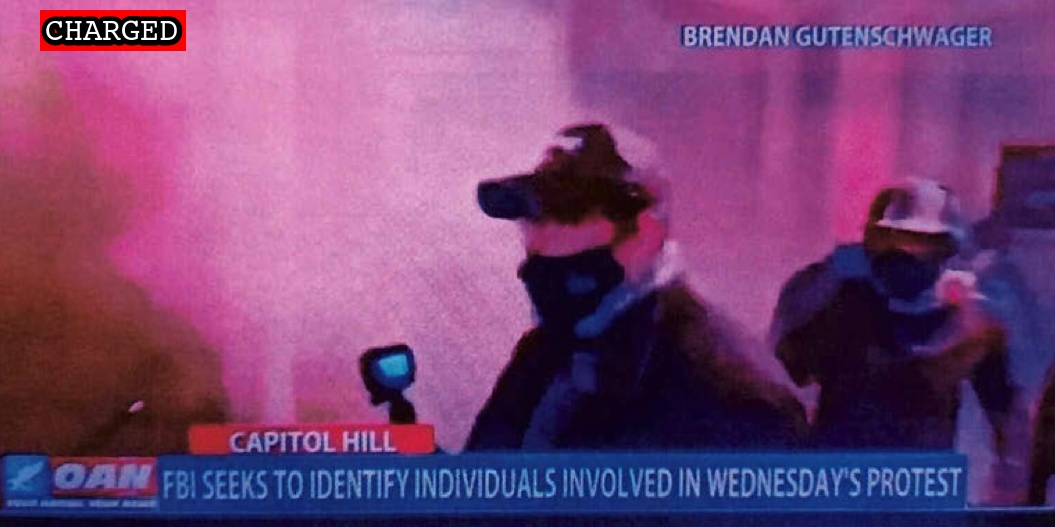
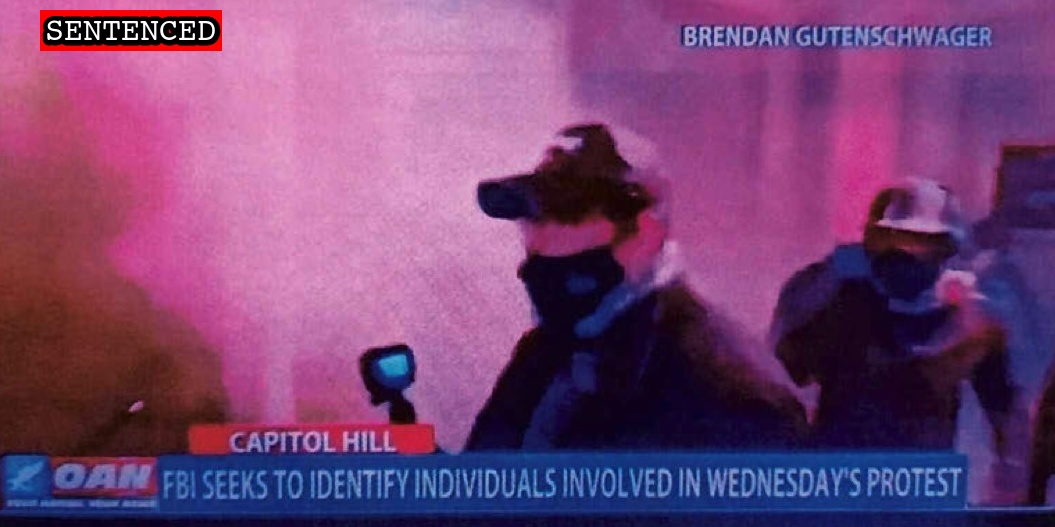
Latest

Changed region(s): [[0.0303, 0.0, 0.2123, 0.1214]]

diff --git a/docs/_suspects/lloyd-cruz.md b/docs/_suspects/lloyd-cruz.md
@@ -4,20 +4,20 @@ lastName: Cruz
 hashtag:
 aka:
 residence: Missouri
-status: Charged
+status: Sentenced
 date: 2022-02-25
 charged: 2022-02-25
 indicted:
-convicted:
+convicted: 2023-01-13
 acquitted:
-sentenced:
+sentenced: 2023-05-02
 dismissed:
 deceased:
 plea_hearing:
-trial_date: 2023-01-17
-trial_type: Jury Trial
+trial_date: 2023-01-13
+trial_type: Stipulated Bench Trial
 jury_selection:
-sentencing:
+sentencing: 2023-05-02
 status_conference:
 age: 39
 occupation:
@@ -32,7 +32,7 @@ raid:
 perpwalk:
 quote:
 title: Lloyd Cruz charged on February 25, 2022
-description: Click for latest case details. Suspects innocent until proven guilty.
+description: Convicted on January 13, 2023. Click for latest case details.
 author: seditiontrack
 layout: suspect
 published: true
@@ -41,8 +41,21 @@ caseName: USA v. CRUZ
 judge: Reggie B. Walton
 videos:
 charges:
+  - code: 18 USC § 1752(a)(1)
+    title: Entering a restricted building or grounds
+    url: https://www.law.cornell.edu/uscode/text/18/1752
+    felony: false
+  - code: 40 USC § 5104(e)(2)(G)
+    title: Parading, demonstrating or picketing in a Capitol building
+    url: https://www.law.cornell.edu/uscode/text/40/5104
+    felony: false
 sentence:
+  - 45 days incarceration
+  - 1 year probation
+  - $500 restitution
 ---
+
 - [News Report](https://www.kansascity.com/news/politics-government/article259374669.html)
 - [Statement of Facts](https://www.justice.gov/usao-dc/case-multi-defendant/file/1481061/download)
 - [Information](https://www.justice.gov/usao-dc/case-multi-defendant/file/1481066/download)
+- [Statement of Offense](https://storage.courtlistener.com/recap/gov.uscourts.dcd.240852/gov.uscourts.dcd.240852.73.0.pdf)

diff --git a/docs/_suspects/deborah-sandoval.md b/docs/_suspects/deborah-sandoval.md
@@ -17,7 +17,7 @@ plea_hearing:
 trial_date:
 trial_type:
 jury_selection:
-sentencing: 2023-05-01
+sentencing: 2023-08-07
 status_conference:
 age: 54
 occupation:
@@ -41,16 +41,15 @@ caseName: USA v. SANDOVAL
 judge: Colleen Kollar-Kotelly
 videos:
 charges:
-  - code: 40 USC § 5104(e)(2)(G)
-    title: Parading, demonstrating or picketing in a Capitol building
-    url: https://www.law.cornell.edu/uscode/text/40/5104
-    felony: false
+- code: 40 USC § 5104(e)(2)(G)
+  title: Parading, demonstrating or picketing in a Capitol building
+  url: https://www.law.cornell.edu/uscode/text/40/5104
+  felony: false
 sentence:
   - 5 months incarceration
   - 1 year probation
   - $500 restitution
 ---
-
 - [News Report](https://www.desmoinesregister.com/story/news/crime-and-courts/2021/02/19/capitol-riot-arrests-iowa-mother-and-son-face-charges-jan-6-riot-deborah-sandoval-salvador-sandoval/4515346001/)
 - [Statement of Facts](https://www.justice.gov/usao-dc/case-multi-defendant/file/1379251/download)
 - [Indictment](https://www.justice.gov/usao-dc/case-multi-defendant/file/1460081/download)

diff --git a/docs/_suspects/william-gallman.md b/docs/_suspects/william-gallman.md
@@ -4,11 +4,11 @@ lastName: Gallman
 hashtag:
 aka:
 residence: South Carolina
-status: Charged
+status: Convicted
 date: 2022-09-27
 charged: 2022-09-27
 indicted:
-convicted:
+convicted: 2023-05-02
 acquitted:
 sentenced:
 dismissed:
@@ -17,7 +17,7 @@ plea_hearing: 2023-05-02
 trial_date:
 trial_type:
 jury_selection:
-sentencing:
+sentencing: 2023-08-18
 status_conference:
 age: 38
 occupation:
@@ -32,7 +32,7 @@ raid:
 perpwalk:
 quote:
 title: William Gallman charged on September 27, 2022
-description: Click for latest case details. Suspects innocent until proven guilty.
+description: Convicted on May 2, 2023. Click for latest case details.
 author: seditiontrack
 layout: suspect
 published: true
@@ -41,6 +41,10 @@ caseName: USA v. GALLMAN
 judge: Amy B. Jackson
 videos:
 charges:
+- code: 40 USC § 5104(e)(2)(G)
+  title: Parading, demonstrating or picketing in a Capitol building
+  url: https://www.law.cornell.edu/uscode/text/40/5104
+  felony: false
 sentence:
 ---
 - [News Report](https://www.thestate.com/news/local/crime/article267161521.html)

diff --git a/docs/_suspects/joei-gallman.md b/docs/_suspects/joei-gallman.md
@@ -4,11 +4,11 @@ lastName: Gallman
 hashtag:
 aka:
 residence: South Carolina
-status: Charged
+status: Convicted
 date: 2022-09-27
 charged: 2022-09-27
 indicted:
-convicted:
+convicted: 2023-05-02
 acquitted:
 sentenced:
 dismissed:
@@ -17,7 +17,7 @@ plea_hearing: 2023-05-02
 trial_date:
 trial_type:
 jury_selection:
-sentencing:
+sentencing: 2023-08-18
 status_conference:
 age: 42
 occupation:
@@ -32,7 +32,7 @@ raid:
 perpwalk:
 quote:
 title: Joei Gallman charged on September 27, 2022
-description: Click for latest case details. Suspects innocent until proven guilty.
+description: Convicted on May 2, 2023. Click for latest case details.
 author: seditiontrack
 layout: suspect
 published: true
@@ -41,6 +41,10 @@ caseName: USA v. GALLMAN
 judge: Amy B. Jackson
 videos:
 charges:
+- code: 40 USC § 5104(e)(2)(G)
+  title: Parading, demonstrating or picketing in a Capitol building
+  url: https://www.law.cornell.edu/uscode/text/40/5104
+  felony: false
 sentence:
 ---
 - [News Report](https://www.thestate.com/news/local/crime/article267161521.html)

diff --git a/docs/_suspects/joshua-johnson.md b/docs/_suspects/joshua-johnson.md
@@ -41,13 +41,15 @@ caseName: USA v. JOHNSON
 judge: Christopher R. Cooper
 videos:
 charges:
-- code: 18 USC § 1512(c)(2),2
-  title: Obstruction of an Official Proceeding (Aiding and Abetting)
-  url: https://www.law.cornell.edu/uscode/text/18/1512
-  felony: true
+  - code: 18 USC § 1512(c)(2),2
+    title: Obstruction of an Official Proceeding (Aiding and Abetting)
+    url: https://www.law.cornell.edu/uscode/text/18/1512
+    felony: true
 sentence:
 ---
+
 - [News Report](https://www.rawstory.com/ma-2657044063/)
 - [Complaint](https://www.justice.gov/usao-dc/case-multi-defendant/file/1487181/download)
 - [Statement of Facts](https://www.justice.gov/usao-dc/case-multi-defendant/file/1487186/download)
 - [Indictment](https://www.justice.gov/usao-dc/case-multi-defendant/file/1487191/download)
+- [Plea Agreement](https://storage.courtlistener.com/recap/gov.uscourts.dcd.241195/gov.uscourts.dcd.241195.38.0.pdf)

diff --git a/docs/_suspects/josiah-hueso.md b/docs/_suspects/josiah-hueso.md
@@ -41,13 +41,12 @@ caseName: USA v. HUESO
 judge: Christopher R. Cooper
 videos:
 charges:
-  - code: 40 USC § 5104(e)(2)(G)
-    title: Parading, demonstrating or picketing in a Capitol building
-    url: https://www.law.cornell.edu/uscode/text/40/5104
-    felony: false
+- code: 40 USC § 5104(e)(2)(G)
+  title: Parading, demonstrating or picketing in a Capitol building
+  url: https://www.law.cornell.edu/uscode/text/40/5104
+  felony: false
 sentence:
 ---
-
 - [News Report](https://www.sandiegouniontribune.com/news/courts/story/2022-05-27/hueso-capitol-arrest)
 - [Statement of Facts](https://www.justice.gov/usao-dc/case-multi-defendant/file/1509781/download)
 - [Plea Agreement](https://storage.courtlistener.com/recap/gov.uscourts.dcd.244718/gov.uscourts.dcd.244718.25.0_6.pdf)

diff --git a/docs/_suspects/james-elliott.md b/docs/_suspects/james-elliott.md
@@ -52,3 +52,4 @@ sentence:
 - [DOJ Press Release](https://www.justice.gov/usao-dc/pr/illinois-man-arrested-assault-law-enforcement-during-jan-6-capitol-breach)
 - [Plea Agreement](https://www.justice.gov/usao-dc/case-multi-defendant/file/1549141/download)
 - [Statement of Offense](https://www.justice.gov/usao-dc/case-multi-defendant/file/1549146/download)
+- [Sentencing Memo](https://storage.courtlistener.com/recap/gov.uscourts.dcd.238529/gov.uscourts.dcd.238529.40.0.pdf)

diff --git a/docs/_suspects/john-crowley.md b/docs/_suspects/john-crowley.md
@@ -14,11 +14,11 @@ sentenced:
 dismissed:
 deceased:
 plea_hearing:
-trial_date:
-trial_type:
+trial_date: 2023-10-16
+trial_type: Jury Trial
 jury_selection:
 sentencing:
-status_conference: 2023-05-02
+status_conference: 2023-06-23
 age: 50
 occupation:
 affiliations: B Squad Militia, Three Percenters

diff --git a/docs/_suspects/joseph-pavlik.md b/docs/_suspects/joseph-pavlik.md
@@ -14,11 +14,11 @@ sentenced:
 dismissed:
 deceased:
 plea_hearing:
-trial_date:
-trial_type:
+trial_date: 2023-10-16
+trial_type: Jury Trial
 jury_selection:
 sentencing:
-status_conference: 2023-05-02
+status_conference: 2023-06-23
 age: 65
 occupation: Former Firefighter
 affiliations:

diff --git a/docs/_suspects/brian-preller.md b/docs/_suspects/brian-preller.md
@@ -18,7 +18,7 @@ trial_date:
 trial_type:
 jury_selection:
 sentencing:
-status_conference: 2023-05-02
+status_conference: 2023-06-23
 age: 33
 occupation:
 affiliations: B Squad Militia, Three Percenters

diff --git a/docs/_suspects/barton-shively.md b/docs/_suspects/barton-shively.md
@@ -17,7 +17,7 @@ plea_hearing: 2022-09-21
 trial_date:
 trial_type:
 jury_selection:
-sentencing: 2023-05-04
+sentencing: 2023-06-01
 status_conference:
 age: 53
 occupation: U.S. Marines (Former)

diff --git a/docs/_suspects/lawrence-ligas.md b/docs/_suspects/lawrence-ligas.md
@@ -18,7 +18,7 @@ trial_date: 2023-04-03
 trial_type: Bench Trial
 jury_selection:
 sentencing:
-status_conference: 2023-05-02
+status_conference: 2023-07-10
 age: 62
 occupation:
 affiliations:
